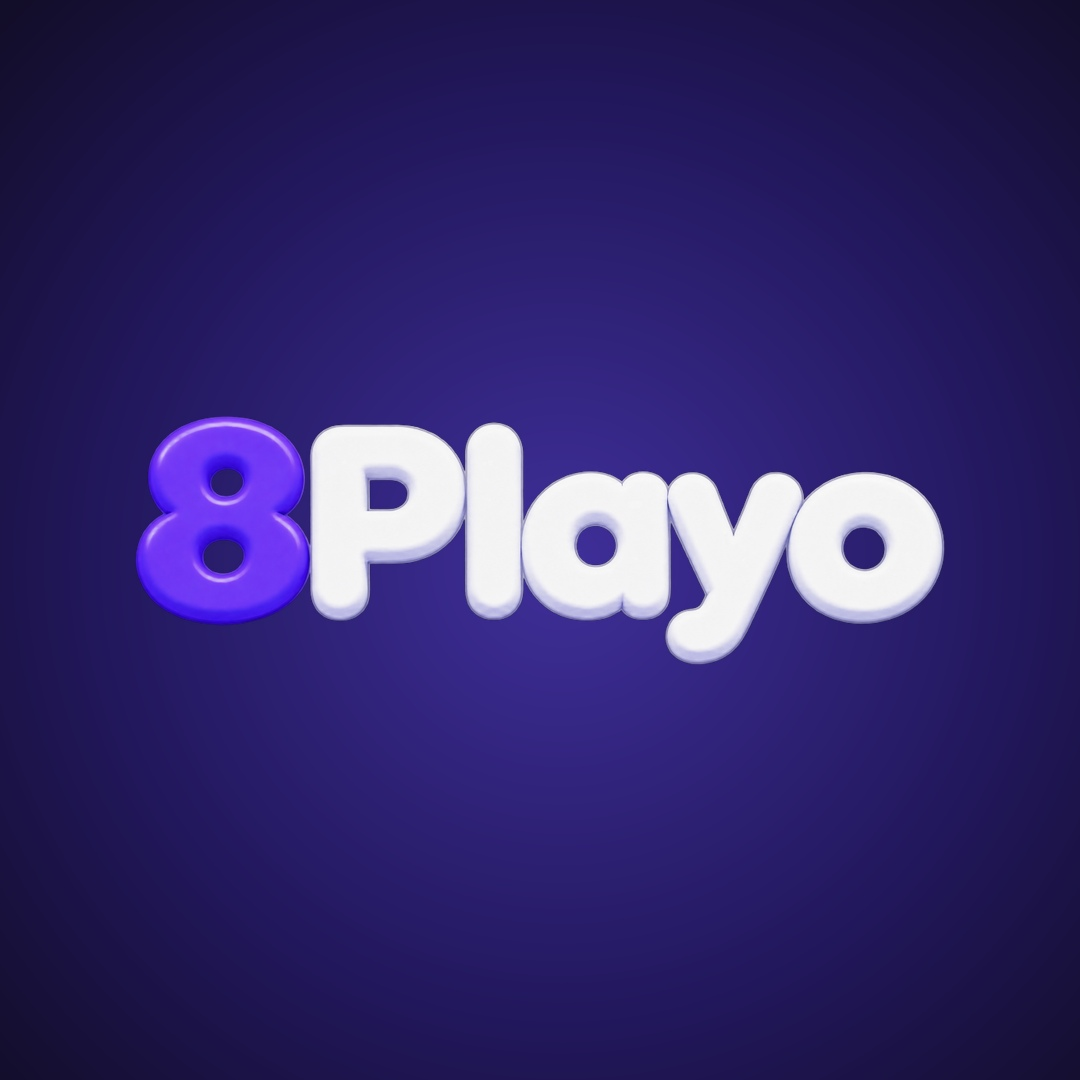
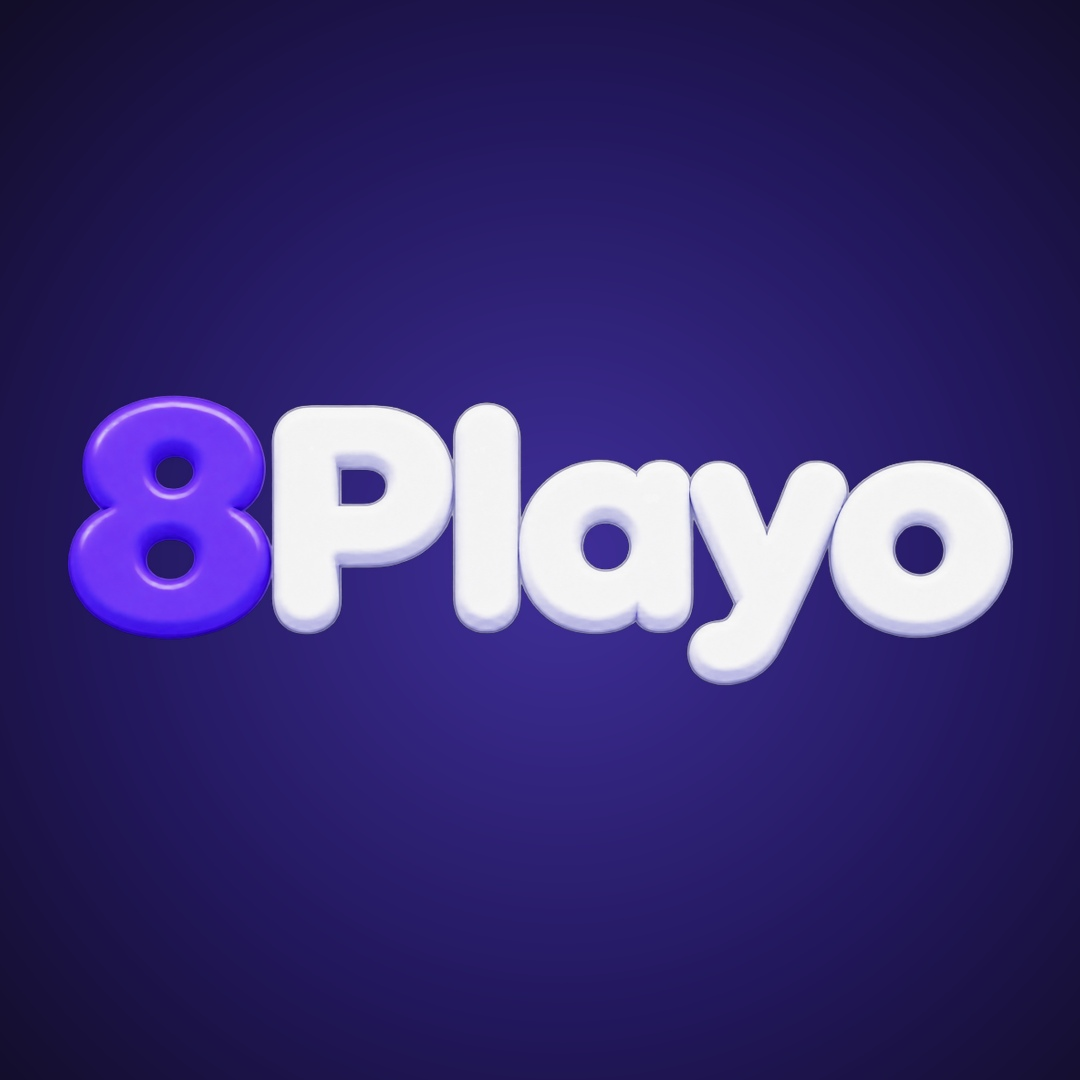
Complete Instagram game posters and publish tools and card guides

Changed region(s): [[0.0611, 0.3667, 0.9472, 0.6417]]

diff --git a/social/instagram/2026-11-25/captions.md b/social/instagram/2026-11-25/captions.md
@@ -69,3 +69,59 @@ Memory Grid — Turn over two tiles at a time and remember what you see. Match e
 Play at 8playo.com
 
 #8Playo #MemoryGrid #MatchingGame #GameNight
+
+## 10 — Eye Sight
+
+Eye Sight — A number flashes on screen. Type the digits you remember, in order. Each correct answer makes the next round harder.
+
+Play at 8playo.com
+
+#8Playo #VisualMemory #MemoryChallenge #GameNight
+
+## 11 — Drum Challenge
+
+Drum Challenge — Listen to the rhythm, then tap when you think the next beat will land. The closest tap wins.
+
+Play at 8playo.com
+
+#8Playo #DrumChallenge #RhythmGame #GameNight
+
+## 12 — Tap in Order
+
+Tap in Order — Memorize the numbered tiles before they hide. Tap their positions in order, starting with 1.
+
+Play at 8playo.com
+
+#8Playo #TapInOrder #MemoryGame #PartyGames
+
+## 13 — Color Trap
+
+Color Trap — Remember the forbidden color. Tap the other circles before they disappear, and leave the forbidden ones alone.
+
+Play at 8playo.com
+
+#8Playo #ColorTrap #ReflexGame #GameNight
+
+## 14 — Truth or Dare
+
+Truth or Dare — Spin to pick a player. Whoever the bottle points to chooses Truth or Dare, then answers the question or does the dare.
+
+Play at 8playo.com
+
+#8Playo #TruthOrDare #SpinTheBottle #PartyGames
+
+## 15 — Pass & Guess
+
+Pass & Guess — Everyone answers the same question in secret. Pass the phone, read the anonymous answers, and guess who wrote each one.
+
+Play at 8playo.com
+
+#8Playo #PassAndGuess #GuessingGame #GameNight
+
+## 16 — Ten Tangle
+
+Ten Tangle — Get a secret number from 1 to 10. Act out the prompt at that intensity and see if the guesser can name your number.
+
+Play at 8playo.com
+
+#8Playo #TenTangle #ActingGame #PartyGames

diff --git a/RELEASE_LOG.md b/RELEASE_LOG.md
@@ -1,5 +1,24 @@
 # Release log
 
+### November 25: remaining Instagram games, tools and card decks
+
+- Checkpoint `checkpoint/2026-11-25-before-instagram-wave-two` preserves
+  088aa0f. Campaign release tag: `release/2026-11-25-instagram-wave-two`.
+  Increased the official avatar wordmark width from 810 to 947 on the same
+  1080 canvas and checked the circular result on the published profile.
+- Completed all 16 individual game posters. Instagram confirmed seven new
+  game posts: Eye Sight DgJbkkViPun, Drum Challenge DgJbm0jiOnb, Tap in Order
+  DgJbpHOiJ5p, Color Trap DgJbsuWCNuC, Truth or Dare DgJbvCcCBqB,
+  Pass & Guess DgJbxb1CGo3 and Ten Tangle DgJb1jgiMng.
+- Captured the actual Tools and Act interfaces from the web export using a
+  local fixture. Published a three-slide guide to all six party tools at
+  https://www.instagram.com/8playo/p/DgJb52IiC5S/ and two two-slide card
+  guides at https://www.instagram.com/8playo/p/DgJcE8yCBn7/ (Act and Talk)
+  and https://www.instagram.com/8playo/p/DgJcJc4iAcY/ (four other categories).
+  Confirmed publication receipts and carousel markers on the profile.
+  English artwork and captions are in social/instagram/2026-11-25.
+  No app code change, Hosting or mobile deployment.
+
 ### November 25: 8Playo Instagram game collection
 
 - Checkpoint `checkpoint/2026-11-25-before-instagram`; campaign release

diff --git a/social/instagram/2026-11-25/tools-and-cards/captions.md b/social/instagram/2026-11-25/tools-and-cards/captions.md
@@ -1,0 +1,33 @@
+## Party Tools
+
+Open Tools when your group needs a quick decision. Spin Bottle to pick a player, flip a coin for heads or tails, or put your own choices on the Wheel. Roll up to four dice, set the Hourglass for a round, or let Team Splitter shuffle everyone into teams.
+
+Try it tonight: put three games on the Wheel and spin to pick your opener.
+
+Play at 8playo.com
+
+#8Playo #PartyTools #GroupGames #GameNight
+
+## Act and Talk
+
+Act or Talk? Pick a deck in Tools → Ready to Use Cards.
+
+Act: pull a Pantomime card and act it out silently. Can your friends guess “zombie in a shopping mall”?
+Talk: read a question aloud and let everyone answer. Swipe when you’re ready for another.
+
+Play at 8playo.com
+
+#8Playo #Charades #ConversationCards #GameNight
+
+## Four decks
+
+Four decks for four moods.
+
+Challenges: play one turn using only questions.
+Penalty: deliver your next sentence like a movie trailer.
+Most Likely To: everyone points to the friend who fits the card.
+Couple: take turns answering a question about the two of you.
+
+Find them in Tools → Ready to Use Cards. Play at 8playo.com
+
+#8Playo #PartyCards #Icebreakers #GameNight
